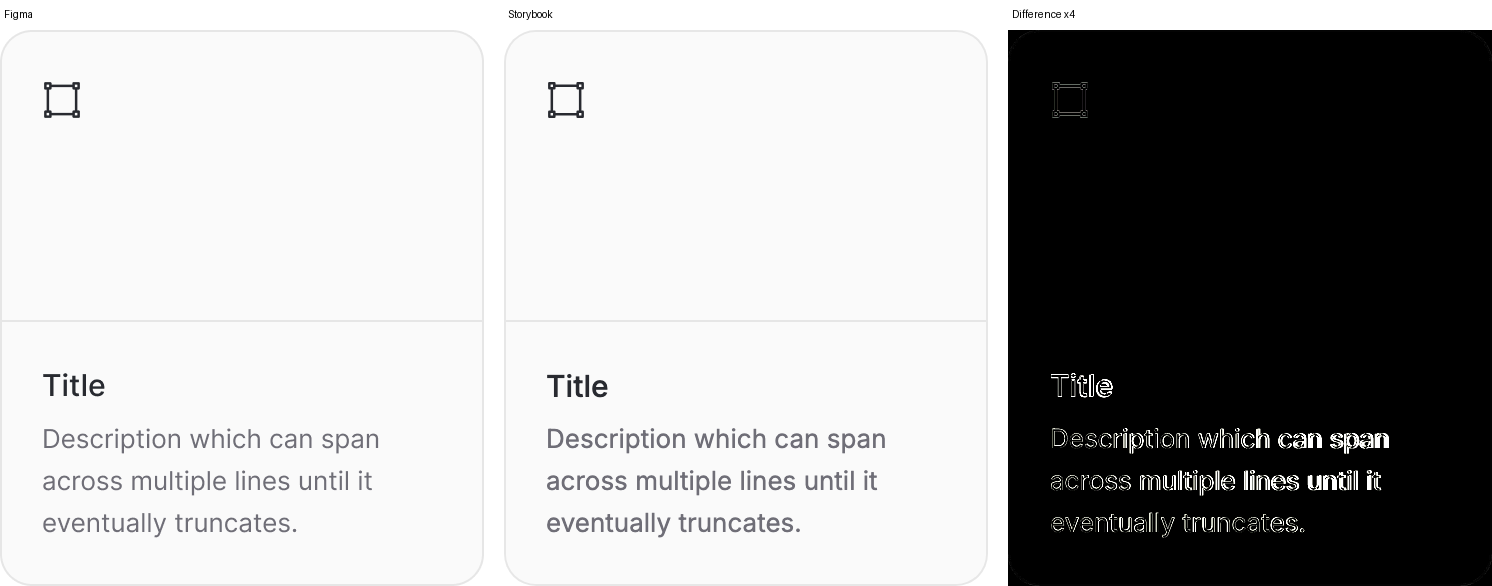
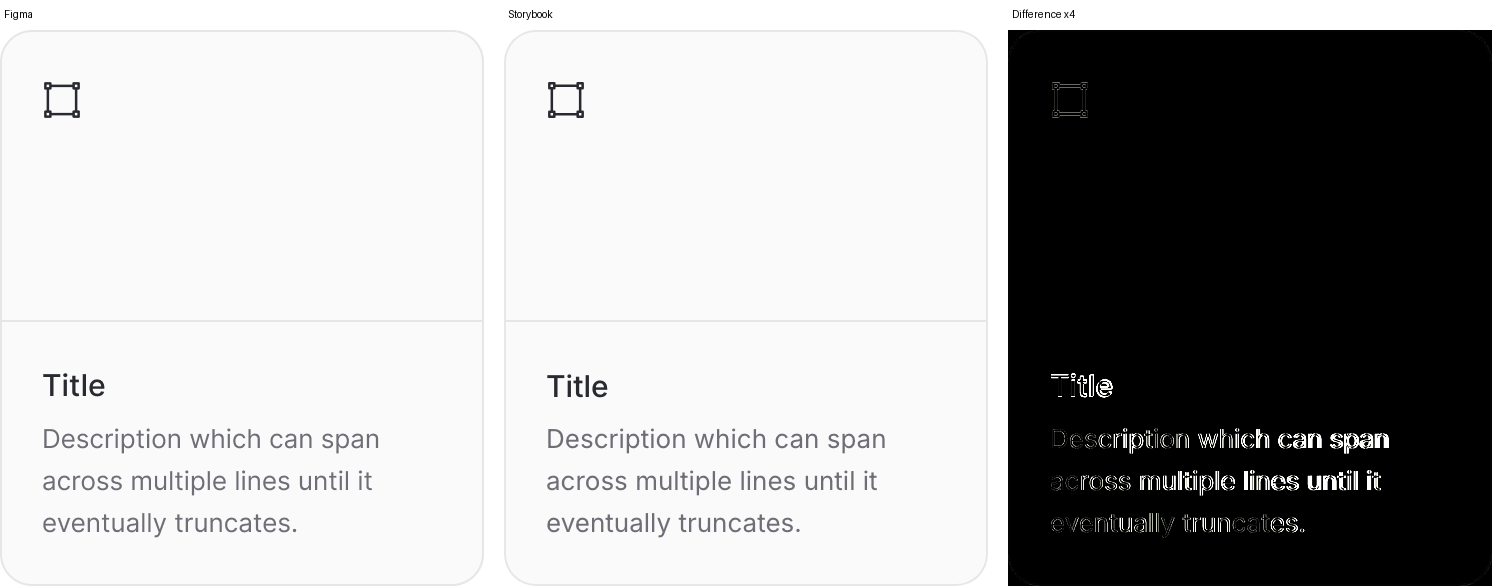
Add a base stylesheet with antialiased font smoothing
Chrome on macOS draws text heavier than Figma. Antialiased smoothing on
the page brings the Card's text to within 0.3% (title) and 2.8%
(description) of Figma's ink, from 6.3% and 16.8%. Storybook loads the
new src/styles/base.css after tokens.css. Comparison images redrawn.

diff --git a/src/styles/base.css b/src/styles/base.css
@@ -1,0 +1,11 @@
+/*
+ * Base styles for any page that uses the design system. Hand-written, unlike tokens.css.
+ *
+ * Font smoothing: browsers on macOS draw text heavier than Figma does by default. Antialiased
+ * smoothing draws thinner strokes, close to Figma's rendering. It only affects macOS; other
+ * systems ignore it.
+ */
+body {
+  -webkit-font-smoothing: antialiased;
+  -moz-osx-font-smoothing: grayscale;
+}

diff --git a/.storybook/preview.tsx b/.storybook/preview.tsx
@@ -2,6 +2,7 @@ import type { Decorator, Preview } from '@storybook/react-vite';
 import { GLOBALS_UPDATED, SET_GLOBALS } from 'storybook/internal/core-events';
 import { addons } from 'storybook/preview-api';
 import '../src/styles/tokens.css';
+import '../src/styles/base.css';
 
 type Theme = 'light' | 'dark';
 

diff --git a/docs/learnings.md b/docs/learnings.md
@@ -143,7 +143,7 @@ Source: the Card component set (Figma node 5:192) and the `20px / Placeholder` i
 
 **The title renders with a different version of Inter, not a different optical size.** Figma's Inter has `slnt` and `wght` axes, which is Inter 3.x. Google Fonts serves Inter 4.001, and with the `wght@100..900` request it has only a `wght` axis, so `font-optical-sizing` has nothing to act on (setting `opsz` to 14 or 32 changes nothing). Zoomed in, the letters are the same height and weight class, but the "t" crossbar reaches further left in Inter 4, and "Title" sets about 0.5px narrower and sits 0.5px lower ([card-title-zoom.png](comparisons/card-title-zoom.png), Figma on top). Matching exactly would mean self-hosting Inter 3.x, or Figma moving to Inter 4.
 
-**Chrome on macOS draws text heavier than Figma.** In the pixel comparison, the title had 7% more ink than Figma and the description 19%. With `-webkit-font-smoothing: antialiased`, both came within 0.3% and 3.5%. That's a rendering setting for the whole page rather than a design value, so it wasn't added to the Card. If it's wanted, it belongs in a global base stylesheet, which doesn't exist yet.
+**Chrome on macOS draws text heavier than Figma.** In the pixel comparison, the title had 7% more ink than Figma and the description 19%. With `-webkit-font-smoothing: antialiased`, both came within 0.3% and 3.5%. That's a rendering setting for the whole page rather than a design value, so it wasn't added to the Card. If it's wanted, it belongs in a global base stylesheet, which doesn't exist yet. **Resolved:** `src/styles/base.css` now sets it for the whole page (see "Base stylesheet and font smoothing" below).
 
 **The pseudo-state addon is new.** `storybook-addon-pseudo-states` (10.6.1, matching Storybook) was added. It rewrites `:hover` rules, including those inside `@media (hover: hover)`, so a story can show the real hover CSS without a mouse, and without a prop.
 
@@ -156,3 +156,21 @@ Source: the Card component set (Figma node 5:192) and the `20px / Placeholder` i
 **File names are turned back into Figma names in one place.** `src/stories/icons/icons.tsx` loads the SVGs and works out each icon's size, name and Figma name from its file name. The Icons page and the Card's Choose icon control both use it, so the 20px filter and the labels can't drift apart. Turning a name back is only exact for names written like the current ones: a size, then a name with only its first letter capitalised (`20px / Mini-golf`). A name like `20px / Golf Ball` would come back as `Golf ball`. If that happens, the export should record each icon's Figma name, the way `tokens/` records Figma metadata.
 
 **The icons are listed alphabetically, not in Figma's order.** The files don't record where each icon sits on the Figma page.
+
+## 2026-10-12: Base stylesheet and font smoothing
+
+**Text is now drawn with antialiased smoothing.** A new hand-written stylesheet, `src/styles/base.css`, sets `-webkit-font-smoothing: antialiased` and `-moz-osx-font-smoothing: grayscale` on `body`. Storybook loads it after `tokens.css`, and any app using the design system should load it too. It's set on the page rather than in components, so all text on a page renders the same way. It only affects macOS; other systems ignore it.
+
+**Why:** Chrome on macOS draws text heavier than Figma by default. linear.app/docs, which the Card is based on, uses the same font (Inter) and the same weights (510 and 400), and looks thinner because it sets this same smoothing on its pages.
+
+**Result, measured against Figma's 2× render of the Card (ink in each area compared with Figma):**
+
+| Area | Before | After |
+| --- | --- | --- |
+| Title | +6.3% | +0.3% |
+| Description | +16.8% | +2.8% |
+| Icon | +0.5% | +0.5% |
+
+The icon is unchanged, as expected: smoothing only applies to text. The comparison images in [comparisons/](comparisons/) were redrawn with the new rendering. What's left in the description is the letters sitting fractions of a pixel apart, because Figma uses Inter 3 and the browser Inter 4.
+
+**Other differences from Linear, not followed.** Linear also tightens letter spacing slightly (about −1.1% on the title and −1.3% on the description), uses a 14px description where Figma has 13px, and turns on two of Inter's alternate letters (`cv01`, a different "1", and `ss03`, rounder quotes and commas). These are type decisions, so they'd start in Figma's text styles, not in code.
